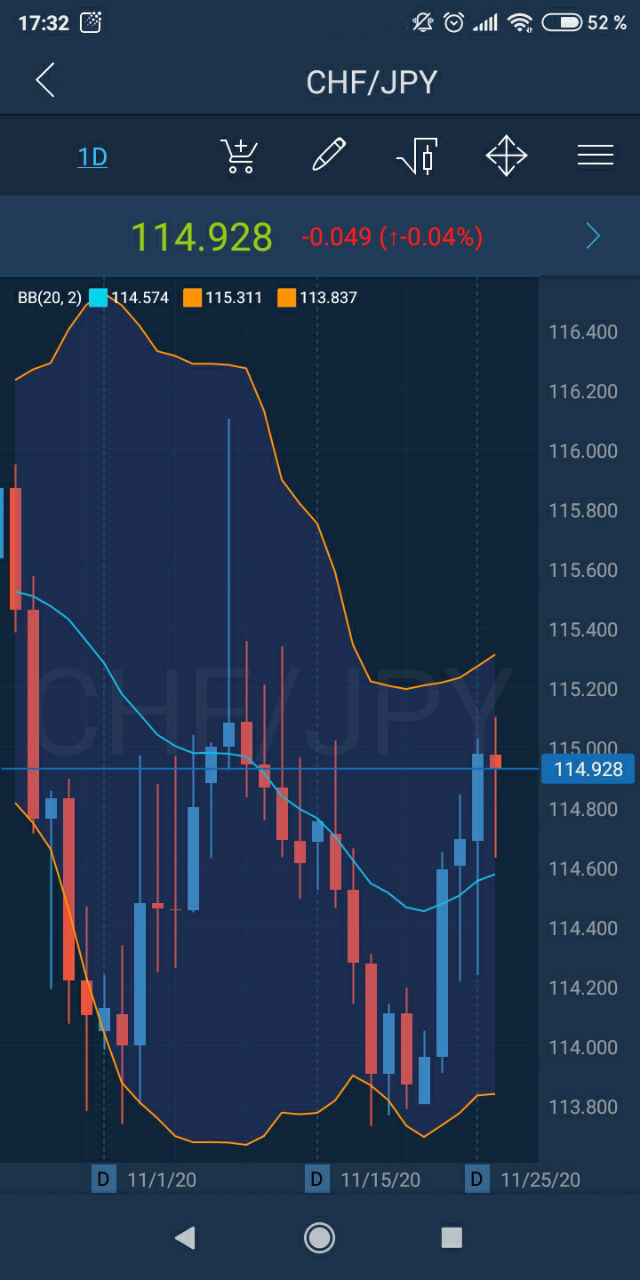
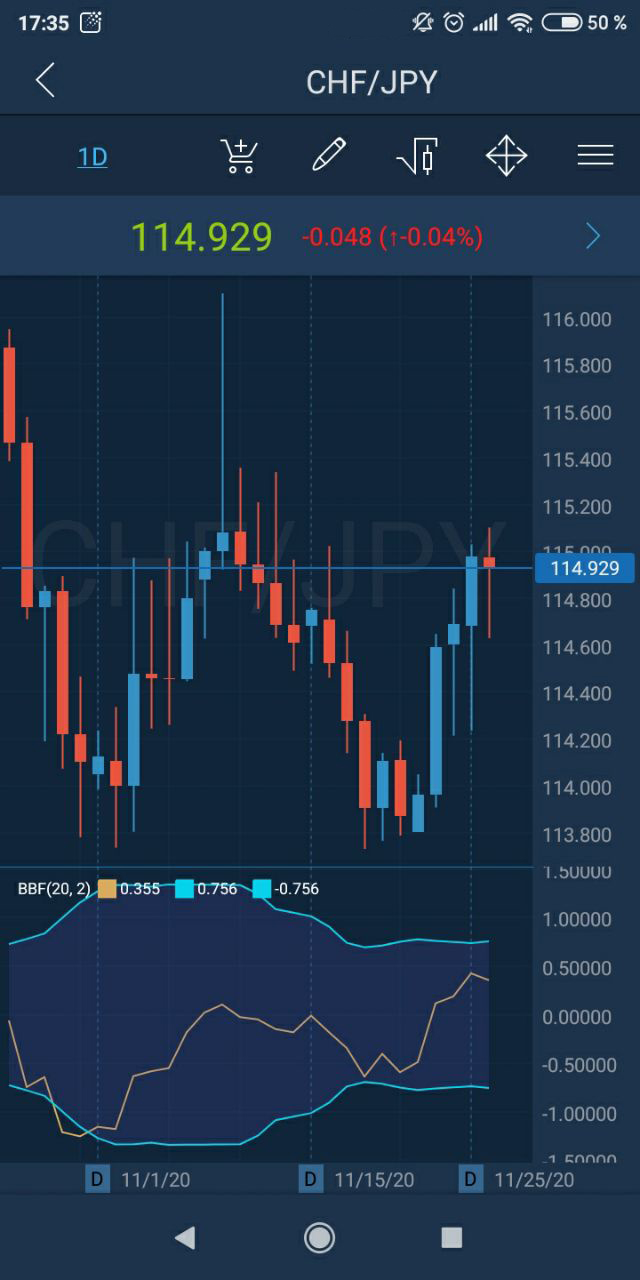
GitBook: [master] 3 pages and 2 assets modified

diff --git a/mobile-applications/phone/android/technical-indicators/channels/bbf-bollinger-bands-flat.md b/mobile-applications/phone/android/technical-indicators/channels/bbf-bollinger-bands-flat.md
@@ -1,0 +1,39 @@
+# BBF \(Bollinger bands flat\)
+
+Bollinger bands flat indicator provides the same data as Bollinger bands but is displayed in a separate field and thus makes it easy to determine whether prices are in or out of the band. 
+
+This indicator consists of:
+
+* Positive deviation – shows the value of the positive standard deviation, shifted N times up;
+* Negative deviation – shows the value of the negative standard deviation shifted N times down;
+* Delta – shows the difference between the current value and the value of the moving average at a given point. 
+
+### Calculation
+
+As can be understood from the above, only three components of the indicator are calculated:
+
+Delta = ClosePrice - MA, where
+
+ClosePrice is the current value of the Close price,
+
+MA - the value of the moving average.
+
+Positive deviation = A \* D, where
+
+A - deviation parameter value,
+
+D - dispersion relative to the moving average,
+
+Negative deviation = \(-1\) __A \* D
+
+### Main parameters
+
+* Interval – provides the ability to set the number of confidence intervals, 20 by default;
+* Deviation – for setting the required deviation, 2 by default;
+* Type of Moving average – moving average calculation type: Simple, Exponential, Modified, Linear weighted;
+* Apply to – type of price at which the indicator will be calculated: Close, Open, High, Low, Typical, Medium, Weighted.
+
+This looks as follows on the chart:
+
+![](../../../../../.gitbook/assets/1%20%283%29.jpg)
+

diff --git a/SUMMARY.md b/SUMMARY.md
@@ -194,6 +194,7 @@
         * [Channels](mobile-applications/phone/android/technical-indicators/channels/README.md)
           * [BB \(Bollinger bands\)](mobile-applications/phone/android/technical-indicators/channels/bb-bollinger-bands.md)
           * [Price channel](mobile-applications/phone/android/technical-indicators/channels/price-channel.md)
+          * [BBF \(Bollinger bands flat\)](mobile-applications/phone/android/technical-indicators/channels/bbf-bollinger-bands-flat.md)
       * [Order entry](mobile-applications/phone/android/order-entry.md)
       * [Orders](mobile-applications/phone/android/orders.md)
       * [Trading ideas](mobile-applications/phone/android/trading-ideas.md)

diff --git a/mobile-applications/phone/android/technical-indicators/channels/bb-bollinger-bands.md b/mobile-applications/phone/android/technical-indicators/channels/bb-bollinger-bands.md
@@ -55,7 +55,7 @@ It is recommended to use 20-period Simple Moving Average as the middle line, and
 
 The indicator looks as follows on the chart:
 
-![](../../../../../.gitbook/assets/1%20%283%29.jpg)
+![](../../../../../.gitbook/assets/1%20%284%29.jpg)
 
 
 
